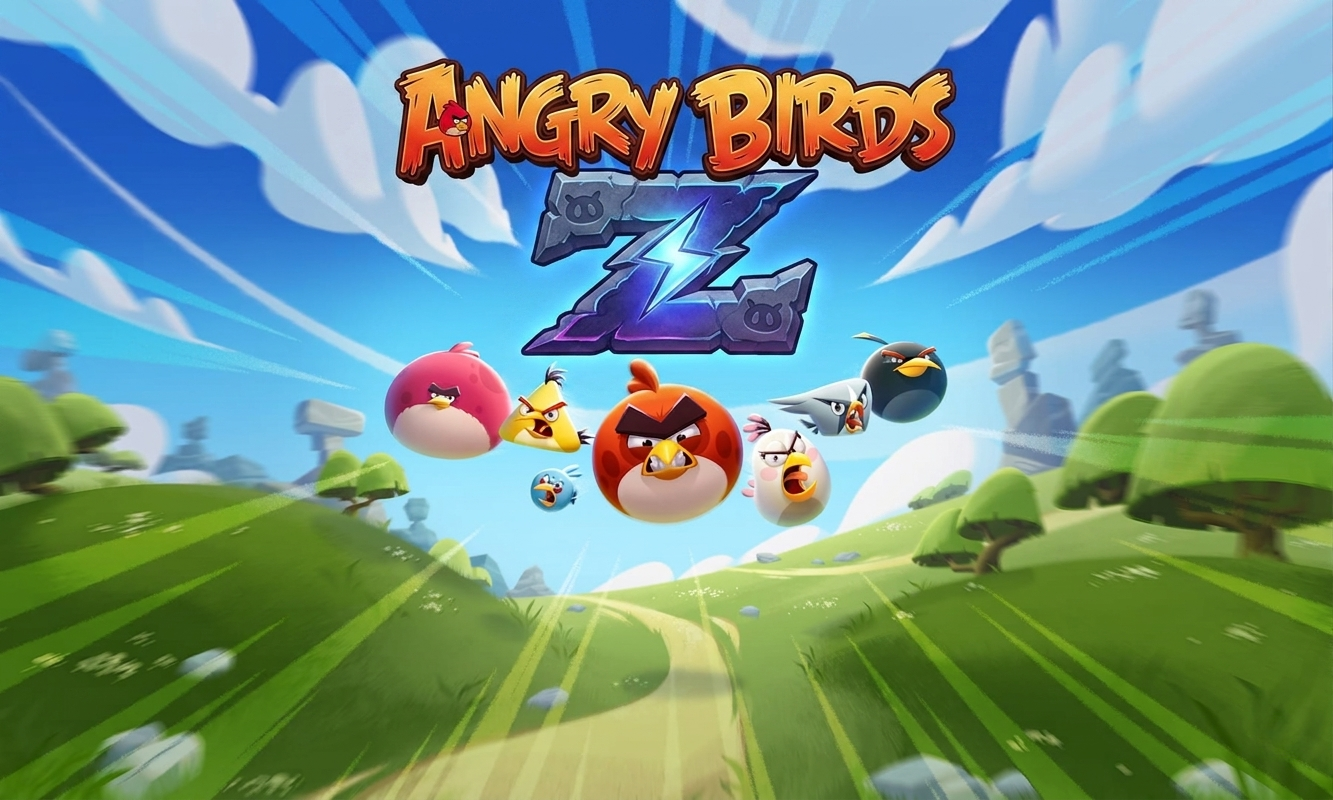
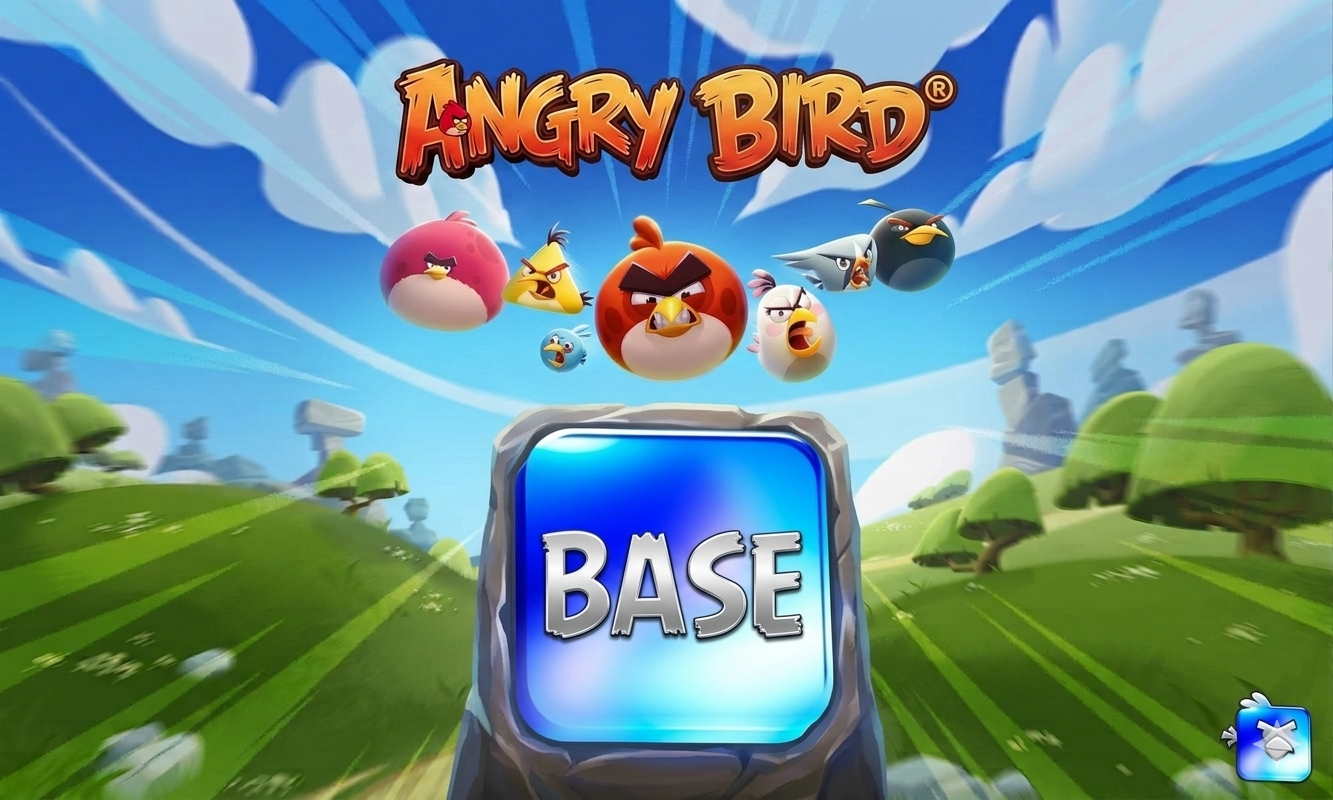
Update name to Angry Bird Base and adjust gate card UI

Changed region(s): [[0.2768, 0.0625, 0.7382, 1.0], [0.892, 0.8438, 0.9842, 1.0]]

diff --git a/styles.css b/styles.css
@@ -1,5 +1,5 @@
 /* ═══════════════════════════════════════════════════════
-   ANGRY BIRDS Z — STYLES
+   ANGRY BIRD BASE — STYLES
    ═══════════════════════════════════════════════════════ */
 
 *, *::before, *::after { box-sizing: border-box; margin: 0; padding: 0; }
@@ -44,9 +44,11 @@ html, body {
 .overlay.active { opacity: 1; pointer-events: all; }
 
 #wallet-gate {
-  background: url('./assets/banner.png') center/cover no-repeat;
+  background: url('./assets/banner.png?v=2') center/cover no-repeat;
   align-items: flex-end;
+  justify-content: flex-start;
   padding-bottom: 8vh;
+  padding-left: 8vw;
 }
 #wallet-gate::before {
   display: none;
@@ -74,8 +76,8 @@ html, body {
   -webkit-backdrop-filter: blur(12px);
   border: 1px solid var(--card-border);
   border-radius: var(--radius);
-  padding: 40px 36px;
-  max-width: 420px;
+  padding: 30px 24px;
+  max-width: 340px;
   width: calc(100% - 32px);
   box-shadow: var(--shadow), 0 0 60px rgba(86,192,240,0.15);
   text-align: center;

diff --git a/index.html b/index.html
@@ -3,8 +3,8 @@
 <head>
   <meta charset="UTF-8" />
   <meta name="viewport" content="width=device-width, initial-scale=1.0, maximum-scale=1.0, user-scalable=no" />
-  <title>Angry Birds Z — Pay to Play on Base</title>
-  <meta name="description" content="Angry Birds-style slingshot game on Base blockchain. Pay 0.000001 ETH to play. Destroy all pigs and conquer every level!" />
+  <title>Angry Bird Base</title>
+  <meta name="description" content="Angry Bird Base slingshot game on Base blockchain. Pay 0.000001 ETH to play. Destroy all pigs and conquer every level!" />
   <meta name="base:app_id" content="69f7420b879b4ae3fa1c7067" />
   <meta name="base:builder_code" content="bc_rato96t7" />
   <meta name="builder_code" content="bc_rato96t7" />
@@ -89,11 +89,7 @@
       <!-- Error banner -->
       <div id="gate-error" class="gate-error" style="display:none"></div>
       
-      <!-- Home Leaderboard -->
-      <div class="home-leaderboard">
-        <h3 class="lb-title">🏆 Top Players</h3>
-        <div id="home-leaderboard-container" class="leaderboard-container"></div>
-      </div>
+
     </div>
   </div>
 
